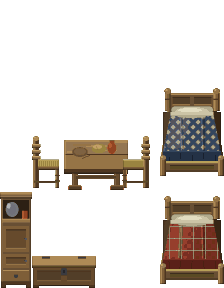
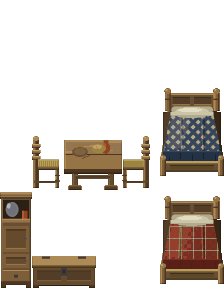
LLM-969 review: piece rects disjoint, painted on a padded canvas, never empty
paint_pieces refuses overlapping rects (the client would cut both
sprites from the same pixels), paints each piece on a canvas padded past
the sheet's edges so an off-sheet stroke is still caught, and refuses a
piece that paints nothing. The red tiny home's table now ends where the
east chair begins (the pack's rects overlapped by 3 px). The density
test taps someone seated on a chair where they overlap its piece.

Changed region(s): [[0.4688, 0.4688, 0.5938, 0.6562]]

diff --git a/tools/interior-art/common.py b/tools/interior-art/common.py
@@ -174,24 +174,45 @@ def shrink(room, palette, outline=0.0, shadow_dark=0.45, ring=0.0):
     return out
 
 
+PIECE_PAD = 8                # room px of margin round a piece while it is painted
+
+
 def paint_pieces(w, h, pieces, palette, outline=0.35, ring=0.18):
-    """The pieces sheet: each piece painted on its own canvas by its painter
-    (called with the Room; it draws in room px into its rect), shrunk, and
-    refused if any of its art falls outside its rect, since the client cuts a
-    piece by its rect and would clip the rest; then pasted into the sheet
-    cropped to its rect, so no piece bleeds into a neighbour.
-    pieces: [((x, y, w, h), painter)]."""
+    """The pieces sheet (w x h room px). pieces: [((x, y, pw, ph), painter)],
+    painter(room, x, y, pw, ph) drawing the piece into that rect in room px.
+
+    The client cuts every piece (and every bed's cover) out of this sheet by
+    its rect, so:
+      - no two rects may overlap: the client would cut both sprites from the
+        same pixels and one piece's art would ride in the other's sprite;
+      - a piece must paint nothing outside its rect, which would be clipped;
+      - a piece must paint something.
+    Each piece is painted alone on a canvas PIECE_PAD room px bigger than the
+    sheet on every side (so a stroke that runs off the sheet's edge is still
+    seen), shrunk, checked, and pasted into the sheet cropped to its rect.
+    Any breach raises ValueError naming the piece."""
+    rects = [r for r, _p in pieces]
+    for i, (ax, ay, aw, ah) in enumerate(rects):
+        for bx, by, bw, bh in rects[i + 1:]:
+            if ax < bx + bw and bx < ax + aw and ay < by + bh and by < ay + ah:
+                raise ValueError("pieces %s and %s overlap" % ((ax, ay, aw, ah), (bx, by, bw, bh)))
+    pad = PIECE_PAD
     sheet = Image.new("RGBA", (w * DENSITY, h * DENSITY), (0, 0, 0, 0))
     for (x, y, pw, ph), painter in pieces:
-        room = Room(w, h)
-        painter(room)
+        room = Room(w + 2 * pad, h + 2 * pad)
+        painter(room, x + pad, y + pad, pw, ph)
         art = shrink(room, palette, outline=outline, ring=ring)
-        box = (x * DENSITY, y * DENSITY, (x + pw) * DENSITY, (y + ph) * DENSITY)
+        box = ((x + pad) * DENSITY, (y + pad) * DENSITY, (x + pad + pw) * DENSITY, (y + pad + ph) * DENSITY)
         outside = art.copy()
         outside.paste((0, 0, 0, 0), box)
         if outside.getbbox() is not None:
-            raise ValueError("piece %s paints outside its rect, at %s (art px)" % ((x, y, pw, ph), outside.getbbox()))
-        sheet.alpha_composite(art.crop(box), box[:2])
+            b = outside.getbbox()
+            raise ValueError("piece %s paints outside its rect, at %s (art px, sheet origin)"
+                             % ((x, y, pw, ph), tuple(v - pad * DENSITY for v in b)))
+        cut = art.crop(box)
+        if cut.getbbox() is None:
+            raise ValueError("piece %s paints nothing" % ((x, y, pw, ph),))
+        sheet.alpha_composite(cut, (x * DENSITY, y * DENSITY))
     return sheet
 
 

diff --git a/tools/interior-art/homes.py b/tools/interior-art/homes.py
@@ -77,7 +77,7 @@ def red_tiny_room(seed=969):
 def red_tiny_pieces(seed=970):
     rnd = random.Random(seed)
     spec = ROOMS["home_red_tiny"]
-    return C.paint_pieces(*spec["size"], [((x, y, w, h), (lambda room, p=painter, r=(x, y, w, h): p(room, *r, rnd)))
+    return C.paint_pieces(*spec["size"], [((x, y, w, h), (lambda room, px, py, pw, ph, p=painter: p(room, px, py, pw, ph, rnd)))
                                          for (x, y, w, h, _sort), painter in spec["pieces"]], C.PIECE_PALETTE)
 
 
@@ -98,7 +98,9 @@ ROOMS = {
         "pieces": [
             ((80, 44, 32, 44, 71), _bed(C.INDIGO, "overshot")),
             ((80, 98, 32, 44, 125), _bed(C.MADDER, "check")),
-            ((32, 70, 32, 25, 88), lambda room, x, y, w, h, rnd: C.trestle_table(room, x, y, w, h, rnd)),
+            # The table ends where the east chair begins (the pack's rects
+            # overlapped by 3 px, which would cut tabletop into the chair).
+            ((32, 70, 29, 25, 88), lambda room, x, y, w, h, rnd: C.trestle_table(room, x, y, w, h, rnd)),
             ((16, 68, 14, 27, 89), _chair(True)),
             ((61, 68, 14, 27, 89), _chair(False)),
             ((0, 96, 16, 48, 143), lambda room, x, y, w, h, rnd: C.cupboard(room, x, y, w, h)),
